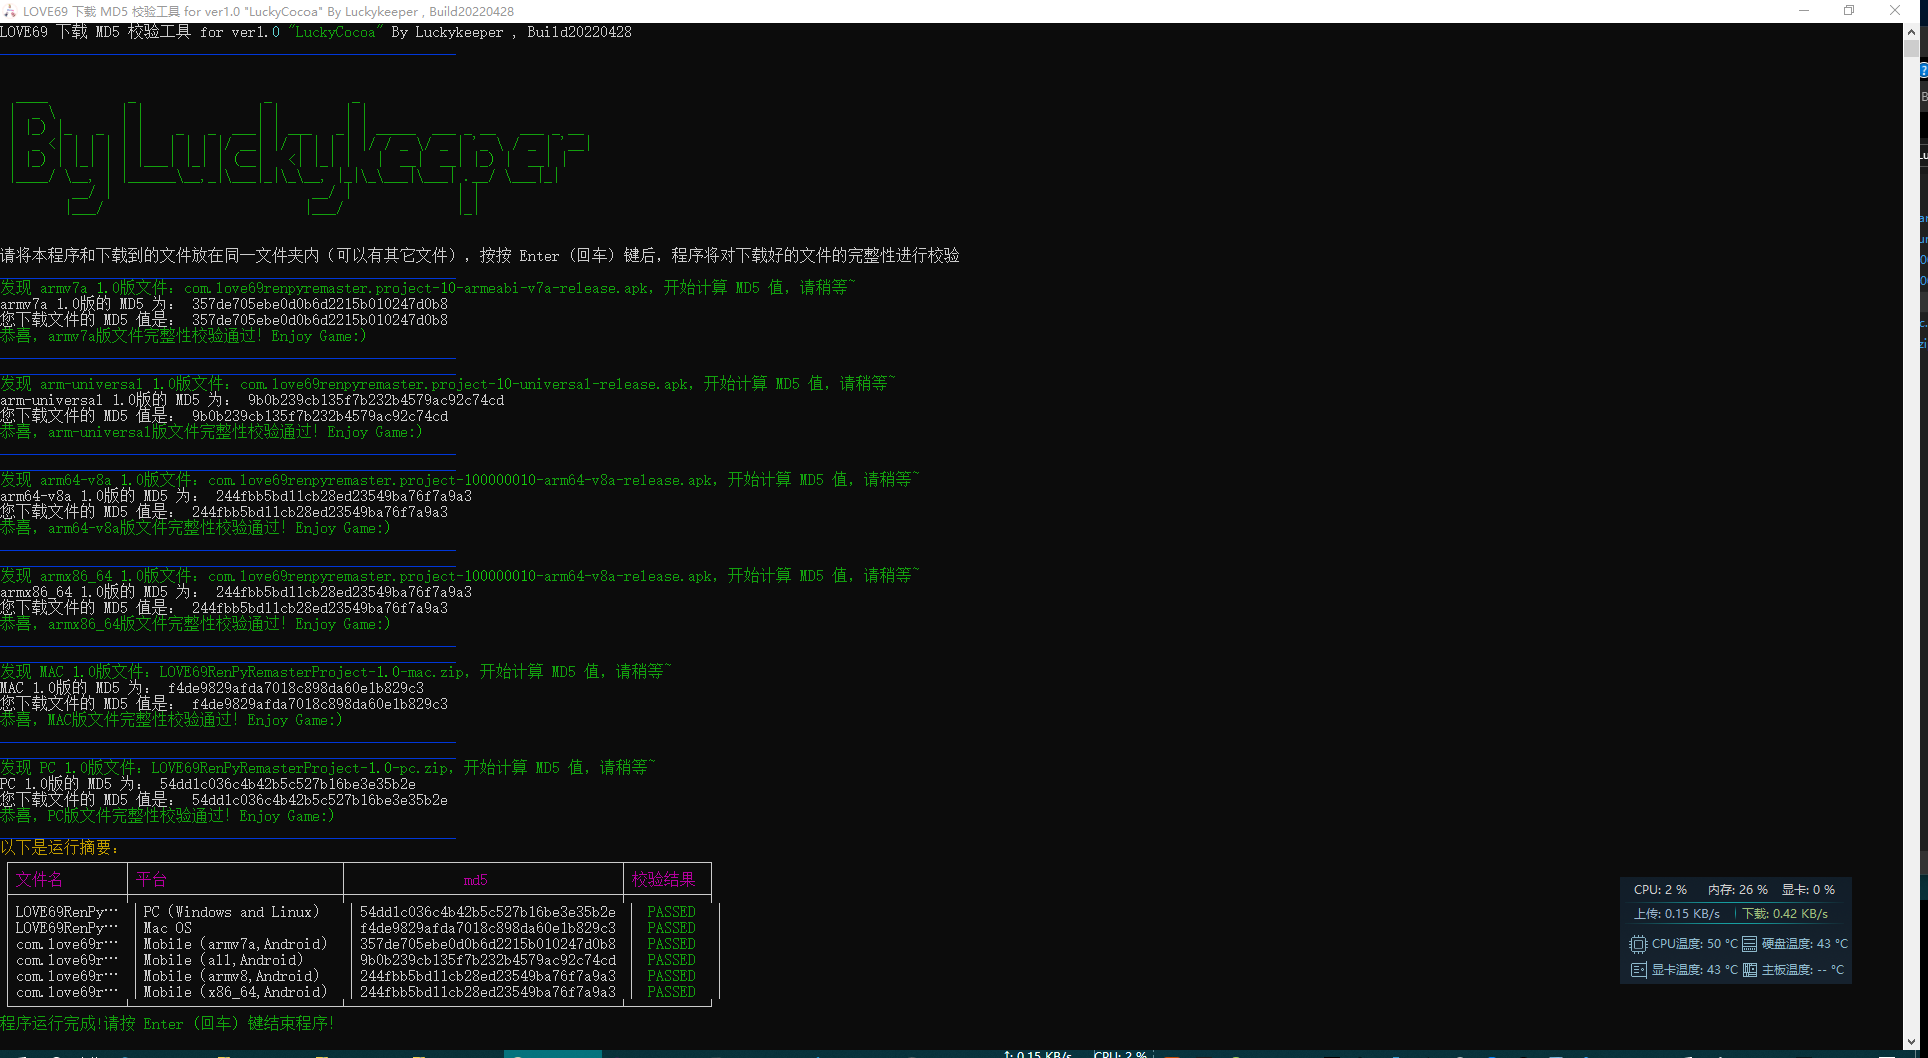
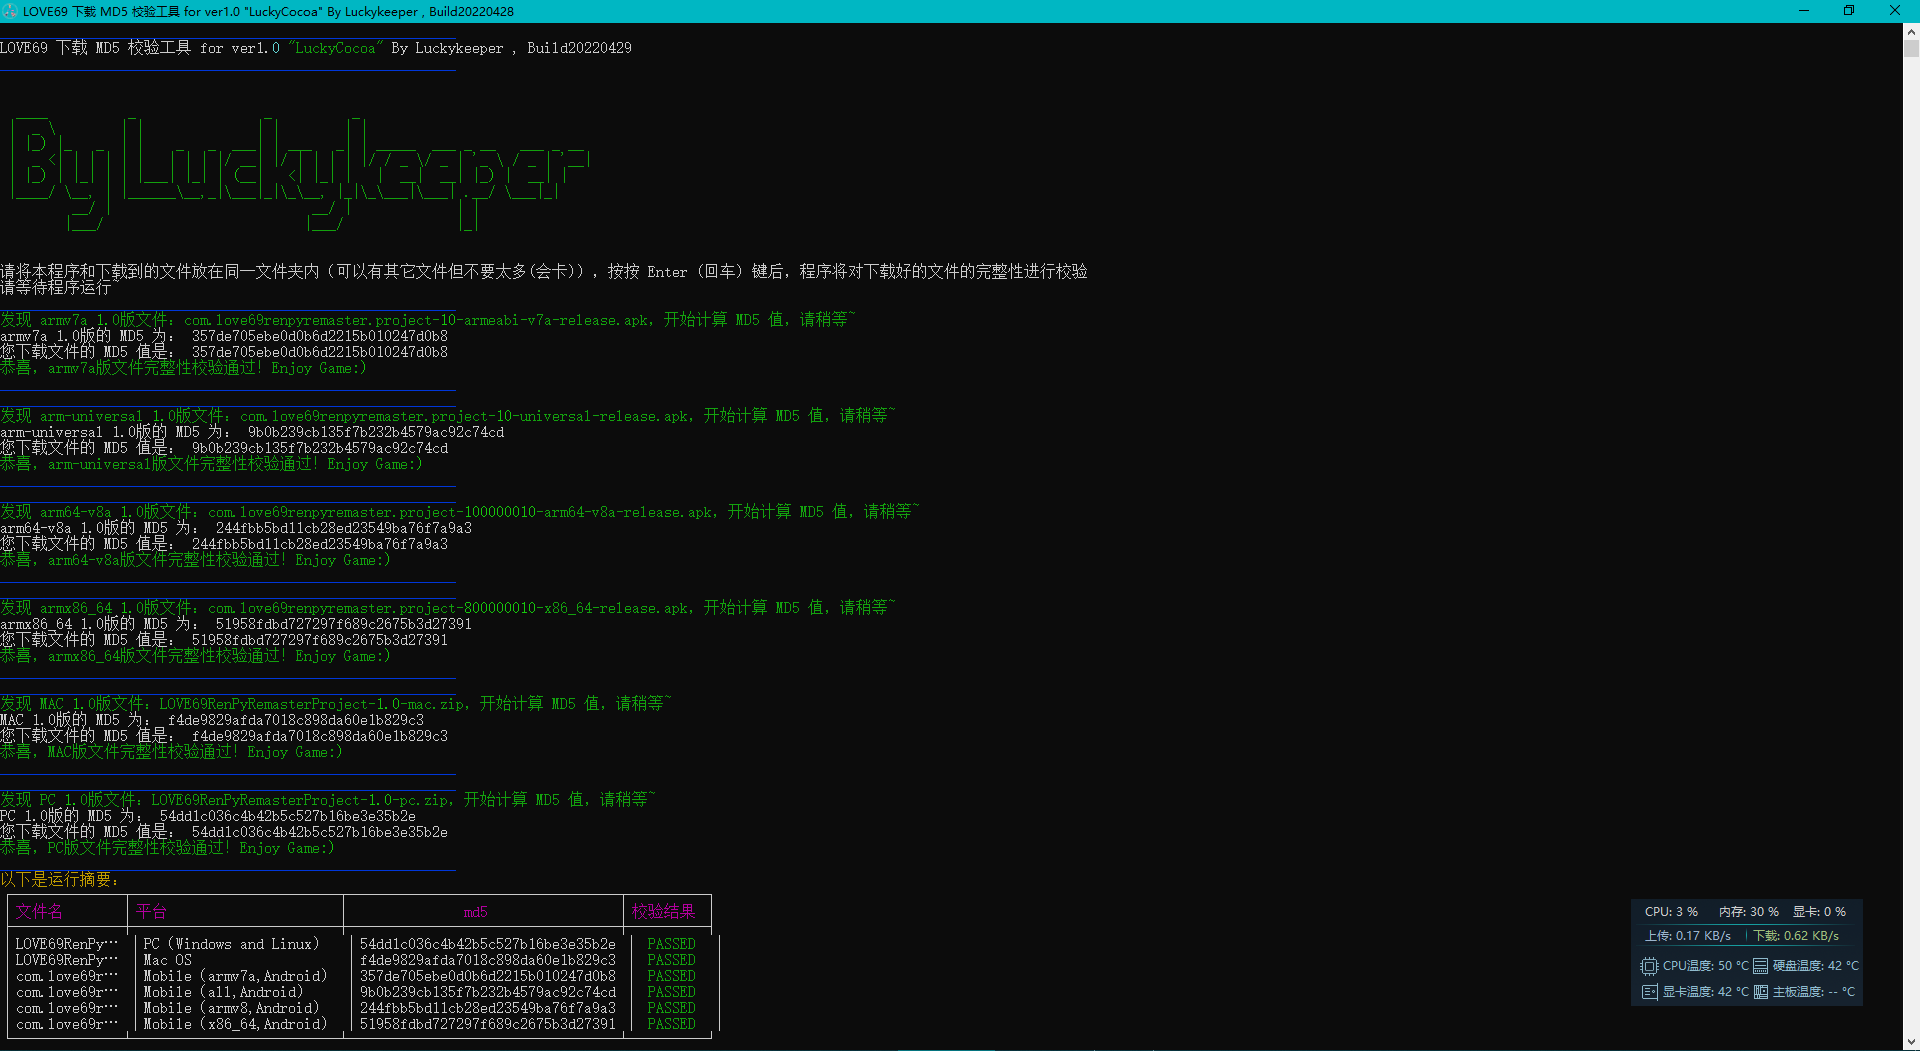
修复一处Bug

diff --git a/md5check.py b/md5check.py
@@ -1,6 +1,6 @@
 # md5 Check By Luckykeeper
 # 计算下载文件是否完整
-# 日期：2022年4月28日
+# 日期：2022年4月29日
 
 import ctypes,hashlib,os,re,msvcrt
 from rich.console import Console
@@ -63,7 +63,7 @@ def show_files(path, all_files):
 ctypes.windll.kernel32.SetConsoleTitleW("LOVE69 下载 MD5 校验工具 for ver1.0 \"LuckyCocoa\" By Luckykeeper , Build20220428")
 
 console.print("[blue]_________________________________________________________[/blue]")
-console.print ("LOVE69 下载 MD5 校验工具 for ver1.0 \"LuckyCocoa\" By Luckykeeper , Build20220428")
+console.print ("LOVE69 下载 MD5 校验工具 for ver1.0 \"LuckyCocoa\" By Luckykeeper , Build20220429")
 console.print("[blue]_________________________________________________________[/blue]")
 console.print("""[green]
 
@@ -205,7 +205,7 @@ for content in contents:
             
             console.print("[blue]_________________________________________________________[/blue]")
             console.print("[green]发现 armx86_64 1.0版文件："+content+"，开始计算 MD5 值，请稍等~[/green]")
-            print("armx86_64 1.0版的 MD5 为：",lv69_ver10_armv8_release_md5)
+            print("armx86_64 1.0版的 MD5 为：",lv69_ver10_armx86_64_Md5_release_md5)
             down_armx86_64_Md5 = CheckMD5('./'+str(content))
             print("您下载文件的 MD5 值是：",down_armx86_64_Md5)
             if down_armx86_64_Md5 == lv69_ver10_armx86_64_Md5_release_md5:
